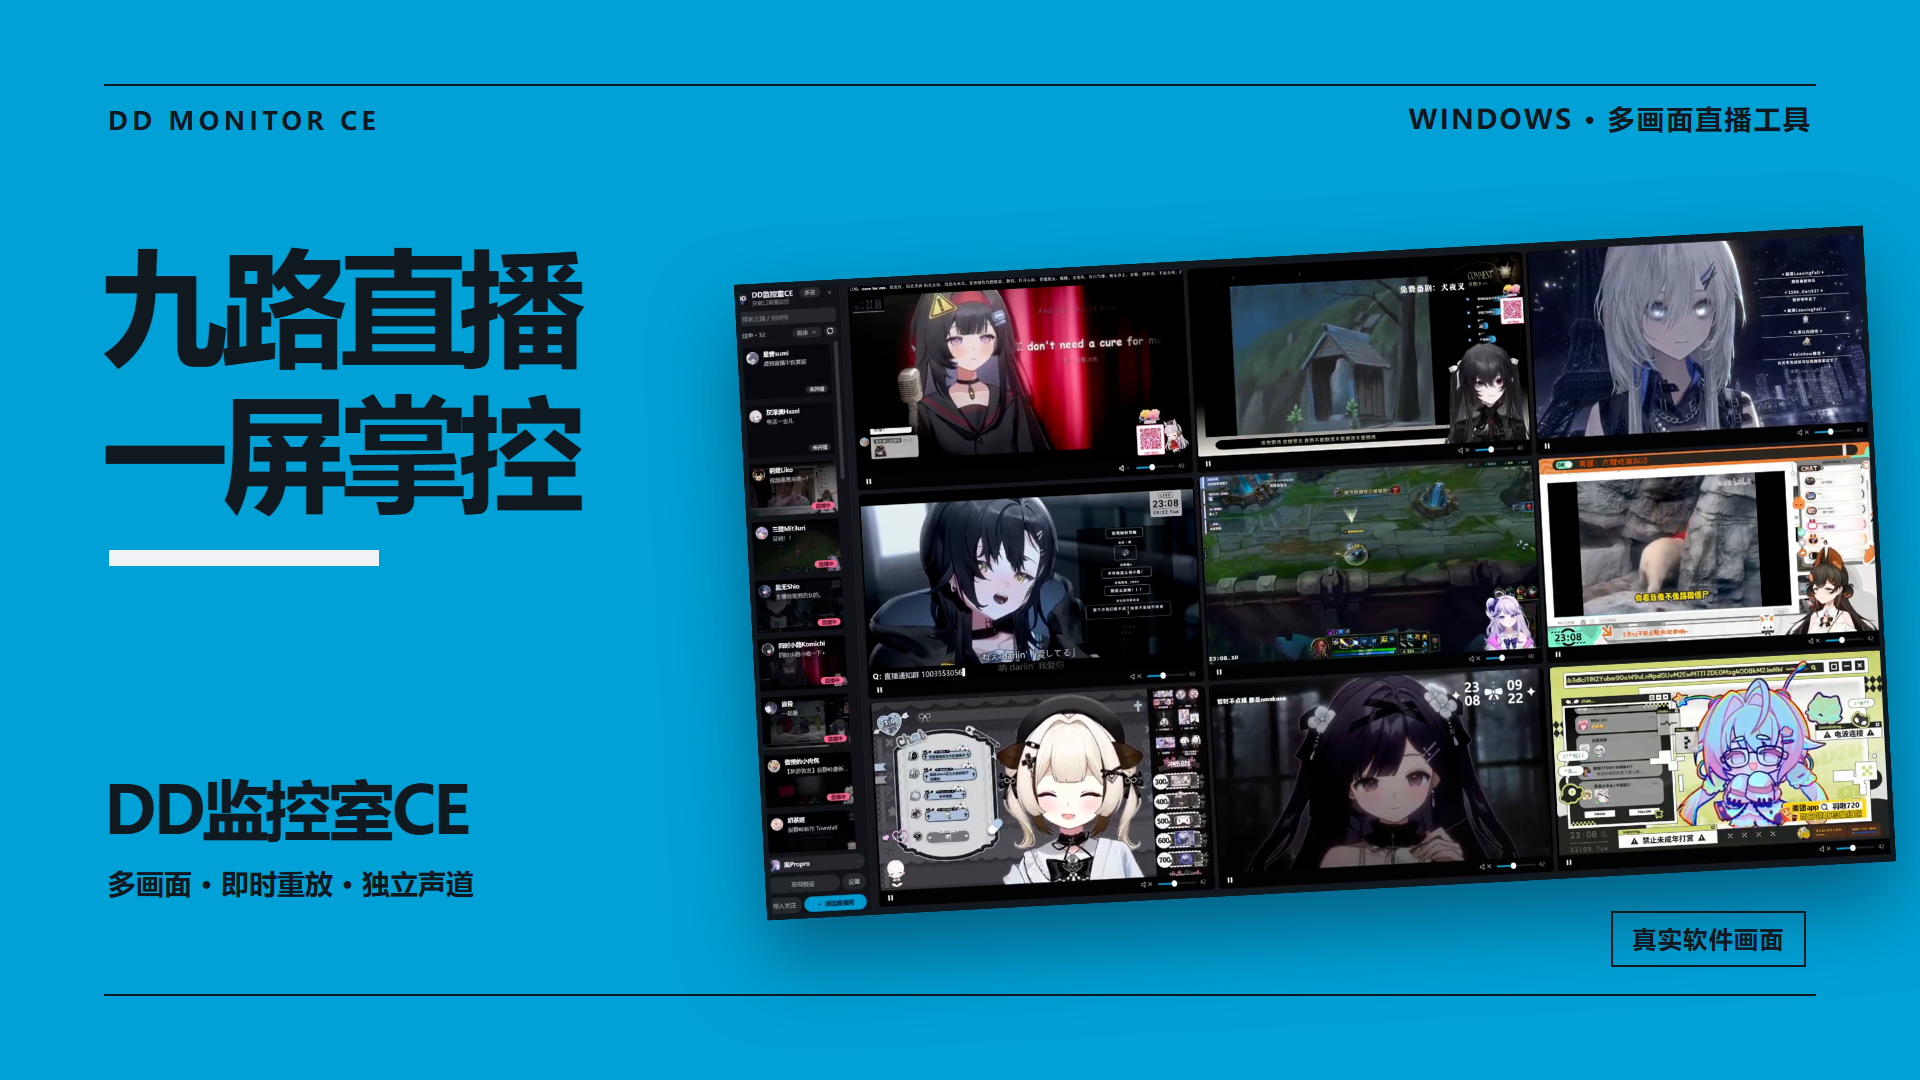
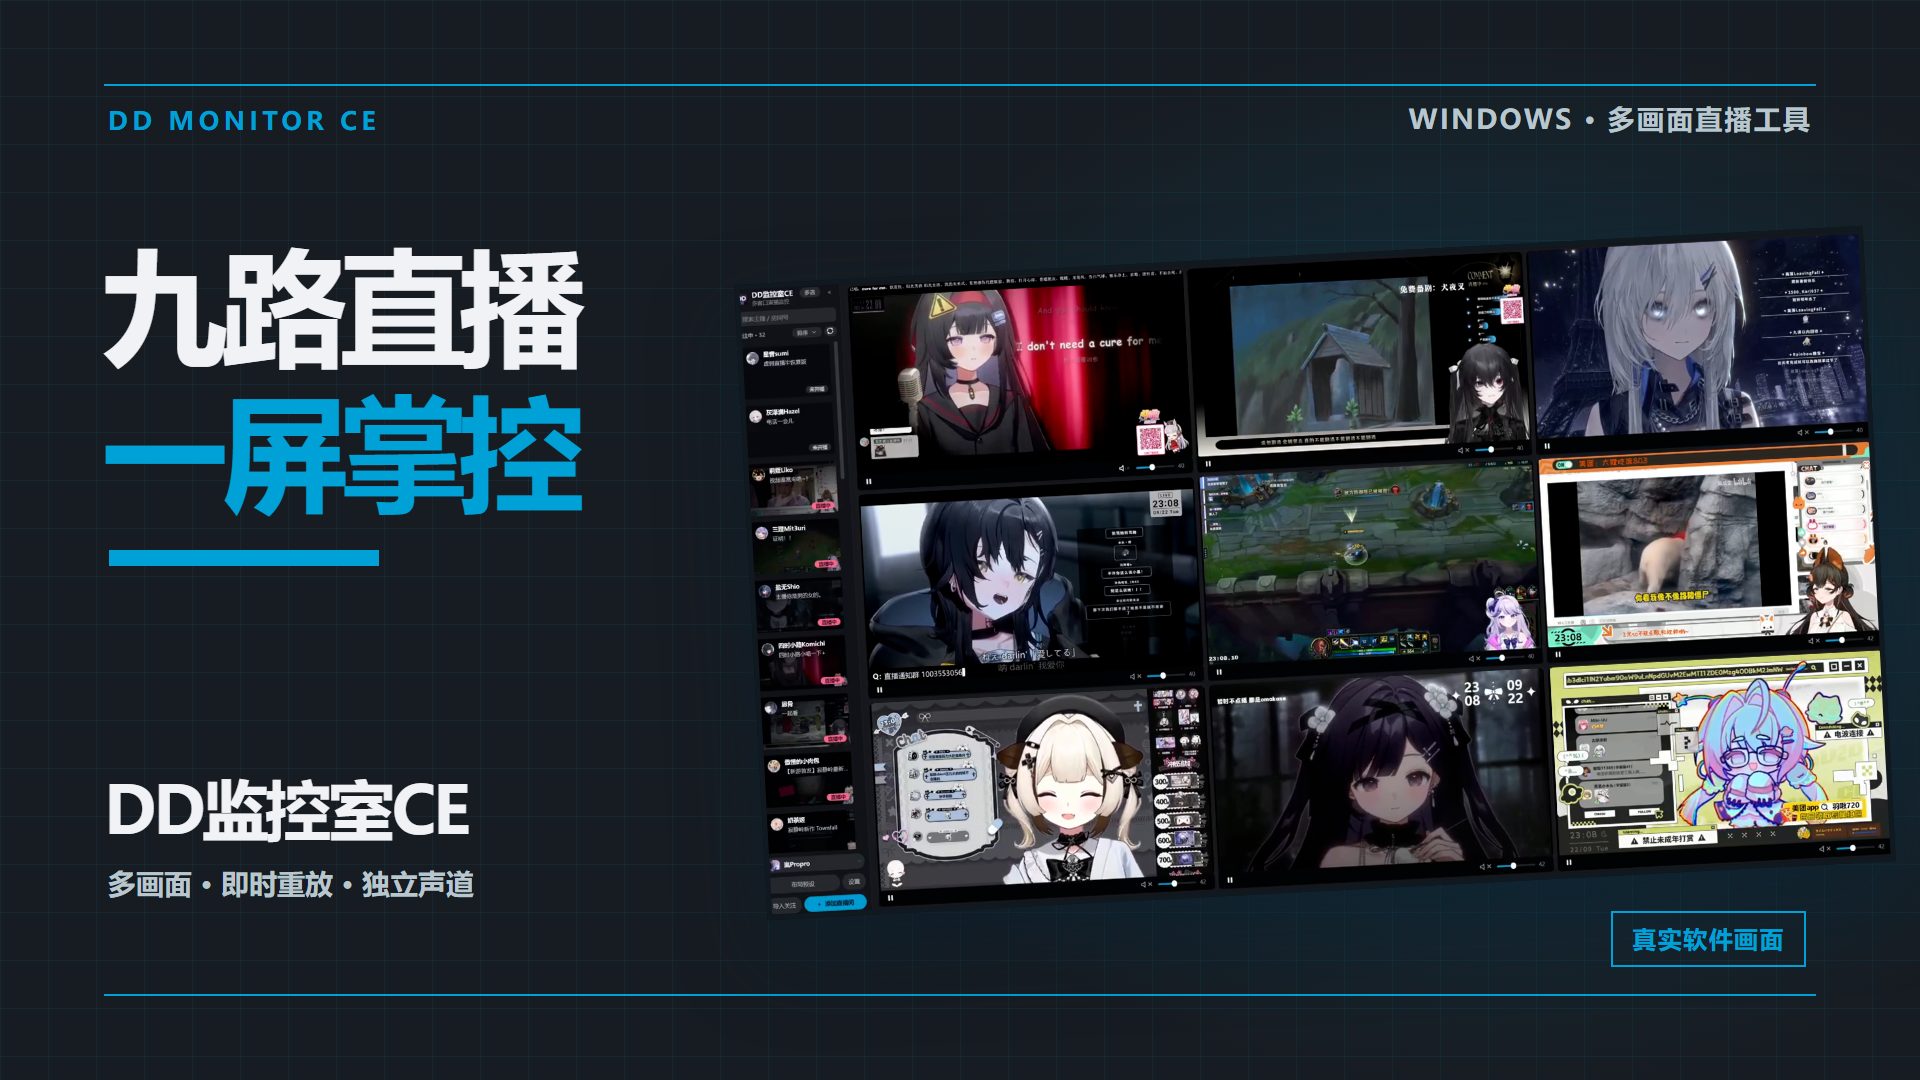
Refine promo cover with dark grid background

diff --git a/videos/dd-monitor-ce-promo/covers/promo-cover.html b/videos/dd-monitor-ce-promo/covers/promo-cover.html
@@ -8,21 +8,22 @@
     * { box-sizing: border-box; }
     html, body { width: 1920px; height: 1080px; margin: 0; overflow: hidden; }
     body { font-family: "Microsoft YaHei UI", "Microsoft YaHei", sans-serif; }
-    .cover { position: relative; width: 1920px; height: 1080px; overflow: hidden; background: #00a1d6; color: #101820; }
-    .top-rule, .bottom-rule { position: absolute; left: 104px; right: 104px; height: 2px; background: #101820; }
+    .cover { position: relative; width: 1920px; height: 1080px; overflow: hidden; color: #f1f2f5; background: radial-gradient(ellipse 950px 700px at 78% 52%, #00a1d638, transparent 75%), linear-gradient(#00a1d614 1px, transparent 1px), linear-gradient(90deg, #00a1d614 1px, transparent 1px), #171c22; background-size: auto, 48px 48px, 48px 48px, auto; }
+    .top-rule, .bottom-rule { position: absolute; left: 104px; right: 104px; height: 2px; background: #00a1d6; }
     .top-rule { top: 84px; }
     .bottom-rule { bottom: 84px; }
-    .eyebrow { position: absolute; top: 108px; left: 108px; font: 700 25px/1 "Microsoft YaHei UI", sans-serif; letter-spacing: .18em; }
-    .index { position: absolute; top: 106px; right: 108px; font: 700 27px/1 "Microsoft YaHei UI", sans-serif; letter-spacing: .08em; }
+    .eyebrow { position: absolute; top: 108px; left: 108px; color: #00a1d6; font: 700 25px/1 "Microsoft YaHei UI", sans-serif; letter-spacing: .18em; }
+    .index { position: absolute; top: 106px; right: 108px; color: #b9c6ce; font: 700 27px/1 "Microsoft YaHei UI", sans-serif; letter-spacing: .08em; }
     h1 { position: absolute; z-index: 2; top: 232px; left: 102px; margin: 0; font-size: 126px; line-height: 1.16; font-weight: 700; letter-spacing: -.055em; }
     h1 span { display: block; white-space: nowrap; }
-    .underline { position: absolute; z-index: 2; left: 109px; top: 550px; width: 270px; height: 16px; background: #f1f2f5; }
+    h1 span:last-child { color: #00a1d6; }
+    .underline { position: absolute; z-index: 2; left: 109px; top: 550px; width: 270px; height: 16px; background: #00a1d6; }
     .product { position: absolute; z-index: 2; left: 104px; bottom: 234px; font-size: 66px; line-height: 1.1; font-weight: 700; letter-spacing: -.045em; white-space: nowrap; }
-    .features { position: absolute; z-index: 2; left: 108px; bottom: 179px; font-size: 28px; line-height: 1.2; font-weight: 600; white-space: nowrap; }
+    .features { position: absolute; z-index: 2; left: 108px; bottom: 179px; color: #b9c6ce; font-size: 28px; line-height: 1.2; font-weight: 600; white-space: nowrap; }
     .window { position: absolute; left: 750px; top: 255px; width: 1130px; height: 636px; transform: rotate(-3deg); transform-origin: center; background: #101820; box-shadow: 0 38px 80px #08202f80; }
     .window img { display: block; width: 100%; height: 100%; object-fit: cover; }
     .window::after { content: ""; position: absolute; inset: 0; border: 5px solid #101820; pointer-events: none; }
-    .recorded { position: absolute; z-index: 2; right: 114px; bottom: 113px; padding: 11px 19px; border: 2px solid #101820; font-size: 24px; font-weight: 700; letter-spacing: .06em; }
+    .recorded { position: absolute; z-index: 2; right: 114px; bottom: 113px; padding: 11px 19px; border: 2px solid #00a1d6; color: #00a1d6; font-size: 24px; font-weight: 700; letter-spacing: .06em; }
   </style>
 </head>
 <body>

diff --git a/videos/dd-monitor-ce-promo/tools/test_promo_cover.py b/videos/dd-monitor-ce-promo/tools/test_promo_cover.py
@@ -18,7 +18,10 @@ def main():
         assert source.size == (1600, 892)
     with Image.open(COVER / "promo-cover.png") as exported:
         assert exported.size == (1920, 1080)
-        assert exported.getpixel((50, 50))[:3] == (0, 161, 214)
+        ground = exported.getpixel((50, 50))[:3]
+        assert max(ground) < 50, "cover should use the software's dark palette"
+        assert exported.getpixel((48, 50))[:3] != ground, "background grid is missing"
+        assert exported.getpixel((1500, 180))[1] > ground[1], "cyan light behind the window is missing"
         screenshot = exported.crop((900, 350, 1700, 820)).convert("RGB")
         assert min(ImageStat.Stat(screenshot).stddev) > 30
 
